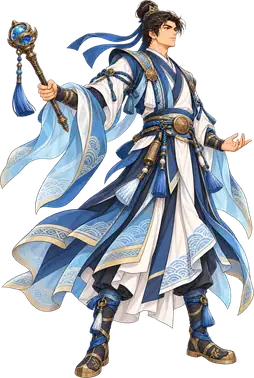
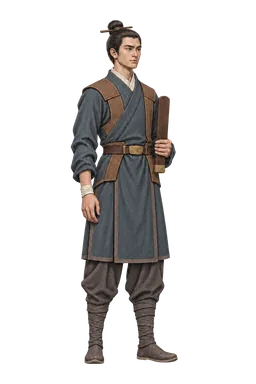
feat: dựng lại hình Đinh Liễn theo bộ tranh mới
Bộ 6 tranh Shan gửi 03/11 (thiết kế RB-007: áo giao lĩnh chàm, giáp da mỏng, vòng vải
ngà cổ tay, thủ bản gỗ đầu bịt đồng) thay bộ áo lam cầm trượng cầu cũ. Ảnh đứng tách
lớp bằng code: bàn tay cùng thủ bản xoay quanh cổ tay (giữ nhịp trượng), cẳng tay không
buông bên hông, đầu; chỗ bị che được chép vân áo bên cạnh. Thêm tranh đánh thường và
phong thái (đặt tay lên ngực); bỏ các lớp vải cũ cape, ribbon, sash, sleeve.

Claude-Session: https://claude.ai/code/session_013ZWRLo17BTWnXwE7jaHzav

diff --git a/src/app/game/stage/rigs.ts b/src/app/game/stage/rigs.ts
@@ -664,45 +664,49 @@ const LE_HOAN: WarriorRig = {
     anchor: { x: 500, y: 1240 }, scale: 0.95 },
 };
 
-/** Đinh Liễn, pháp sư hệ Thủy. Tọa độ theo tranh 1024×1536; nâng pháp trượng nhẹ từ vai. */
+/**
+ * Đinh Liễn, pháp sư hệ Thủy. Bộ tranh Shan gửi 03/11 (nền trong suốt sẵn) theo thiết kế mới RB-007: áo giao lĩnh chàm,
+ * giáp da mỏng, vòng vải ngà cổ tay, tay cầm thủ bản gỗ đầu bịt đồng, thay bộ áo lam cầm trượng cầu cũ. Ảnh đứng tách
+ * lớp bằng code: bàn tay cùng thủ bản xoay quanh cổ tay (nhịp trượng, nâng nhẹ), cẳng tay không buông bên hông, đầu;
+ * chỗ thủ bản che tay áo được chép vân tay áo bên kia, chỗ cẳng tay che vạt áo được chép vân vạt áo cạnh đó. Hệ tọa độ:
+ * ảnh đứng 1024×1536.
+ */
 const DINH_LIEN: WarriorRig = {
   skeleton: "warrior",
   weapon: "staff",
   dir: "dinh-lien",
   texScale: 0.5,
-  foot: { x: 625, y: 1508 },
-  height: 1513,
+  foot: { x: 500, y: 1450 },
+  height: 1375,
   parts: {
-    body: { x: 251, y: 10, w: 770, h: 1513 },
-    armR: { x: 820, y: 518, w: 193, h: 101 },
-    sword: { x: 33, y: 91, w: 245, h: 445 },
-    arm: { x: 5, y: 314, w: 488, h: 556 },
-    head: { x: 546, y: 10, w: 203, h: 217 },
+    body: { x: 280, y: 78, w: 433, h: 1380 },
+    armR: { x: 314, y: 691, w: 90, h: 203 },
+    sword: { x: 614, y: 381, w: 69, h: 318 },
+    arm: { x: 614, y: 548, w: 91, h: 117 },
+    head: { x: 398, y: 78, w: 171, h: 209 },
   },
-  cloth: [
-    { name: "ribbon", box: { x: 272, y: 81, w: 318, h: 204 }, behind: true,
-      wind: { axis: "x", start: 0.2, amp: 5, freq: 1.6, k: 2.8, phase: 0.3, vertical: true, reverse: true } },
-    { name: "cape", box: { x: 10, y: 588, w: 553, h: 669 }, behind: true,
-      wind: { axis: "y", start: 0.2, amp: 4, freq: 1.2, k: 2.8, phase: 1.2 } },
-    { name: "sash", box: { x: 461, y: 551, w: 196, h: 268 },
-      wind: { axis: "y", start: 0.2, amp: 2, freq: 1.35, k: 2.8, phase: 2.1 } },
-  ],
-  covers: [{ name: "sleeve", box: { x: 400, y: 223, w: 138, h: 140 } }],
+  cloth: [],
+  covers: [],
   joints: {
-    shoulder: { x: 465, y: 330 },
-    elbowR: { x: 846, y: 550 },
-    neck: { x: 645, y: 211 },
+    shoulder: { x: 660, y: 580 },
+    elbowR: { x: 345, y: 702 },
+    neck: { x: 490, y: 270 },
   },
-  blade: [{ x: 193, y: 369 }, { x: 95, y: 155 }],
+  blade: [{ x: 642, y: 690 }, { x: 658, y: 392 }],
   fxColor: 0x9fe3ff,
+  // Đưa tay không ra ngang hông (đánh thường), xòe bàn tay chắn trước ngực, thủ bản ngang thắt lưng (ra chiêu), giơ
+  // thủ bản cạnh thái dương và ấn tay về trước trong thế tấn (tuyệt chiêu). Cỡ so theo khoảng mắt tới cằm.
   poses: {
-    cast: { name: "pose-cast", texScale: 1 / 3, origin: { x: 0, y: 66 },
-      anchor: { x: 555, y: 1465 }, scale: 1, burst: { x: 920, y: 174 } },
-    ultimate: { name: "pose-ultimate", texScale: 1 / 3, origin: { x: 11, y: 10 },
-      anchor: { x: 620, y: 1505 }, scale: 1, burst: { x: 450, y: 75 } },
+    attack: { name: "pose-attack", texScale: 0.3, origin: { x: 287, y: 66 },
+      anchor: { x: 475, y: 1478 }, scale: 0.97, burst: { x: 810, y: 449 } },
+    cast: { name: "pose-cast", texScale: 0.3, origin: { x: 209, y: 32 },
+      anchor: { x: 470, y: 1505 }, scale: 0.95, burst: { x: 345, y: 330 } },
+    ultimate: { name: "pose-ultimate", texScale: 0.3, origin: { x: 99, y: 70 },
+      anchor: { x: 480, y: 1490 }, scale: 0.97, burst: { x: 752, y: 110 } },
   },
-  down: { name: "pose-down", texScale: 1 / 3, origin: { x: 12, y: 12 },
-    anchor: { x: 930, y: 945 }, scale: 0.88 },
+  // Ngồi bệt lệch hông, một tay chống đất, thủ bản rơi bên cạnh.
+  down: { name: "pose-down", texScale: 0.3, origin: { x: 43, y: 455 },
+    anchor: { x: 560, y: 1262 }, scale: 0.95 },
 };
 
 /** Trần Lãm, quân sư hệ Thủy. Cờ lệnh đẩy nhẹ; tọa độ theo tranh 1024×1536. */

diff --git a/tests/game/rigs.test.ts b/tests/game/rigs.test.ts
@@ -1796,3 +1796,29 @@ test("Lê Hoàn bộ mới cầm kiếm: khớp nằm trong lớp và texture kh
     assert.equal(data.readUIntLE(27, 3) + 1, Math.floor(box.h * rig.texScale), name);
   }
 });
+
+test("Đinh Liễn bộ mới cầm thủ bản: đủ bốn tranh tư thế, khớp nằm trong lớp và texture khớp tọa độ", () => {
+  const rig = rigOf("dinhLien");
+  assert.ok(rig?.skeleton === "warrior");
+  assert.equal(rig.weapon, "staff");
+  assert.deepEqual(rig.cloth, []);
+  assert.equal(rig.poses?.attack?.name, "pose-attack");
+  assert.equal(rig.poses?.cast?.name, "pose-cast");
+  assert.equal(rig.poses?.ultimate?.name, "pose-ultimate");
+  assert.equal(rig.down?.name, "pose-down");
+  const contains = (p: { x: number; y: number }, box: { x: number; y: number; w: number; h: number }) =>
+    assert.ok(p.x > box.x && p.x < box.x + box.w && p.y > box.y && p.y < box.y + box.h, `${JSON.stringify(p)} ngoài lớp`);
+  contains(rig.joints.shoulder, rig.parts.arm);
+  contains(rig.joints.elbowR, rig.parts.armR);
+  contains(rig.joints.neck, rig.parts.head);
+  contains(rig.joints.neck, rig.parts.body);
+  let bytes = 0;
+  for (const name of partsOf(rig)) bytes += statSync(`public${partUrl(rig, name)}`).size;
+  assert.ok(bytes <= 350_000, `${bytes} bytes vượt ngân sách`);
+  for (const [name, box] of Object.entries(rig.parts)) {
+    const data: Buffer = readFileSync(`public${partUrl(rig, name)}`);
+    assert.equal(data.toString("ascii", 12, 16), "VP8X");
+    assert.equal(data.readUIntLE(24, 3) + 1, Math.floor(box.w * rig.texScale), name);
+    assert.equal(data.readUIntLE(27, 3) + 1, Math.floor(box.h * rig.texScale), name);
+  }
+});

diff --git a/docs/06-art/prompts/v4-2/01-chinh-lich-su-su-quan.md b/docs/06-art/prompts/v4-2/01-chinh-lich-su-su-quan.md
@@ -489,7 +489,7 @@ CONSISTENCY: Create a new design from the description; no previous Reed Banner a
 
 ### RB-007 — Đinh Liễn · Pháp sư / Thủy
 
-> Trạng thái riêng: **DRAFT** — pilot thiết kế mới từ đầu theo yêu cầu Shan 31/10/2026; không khóa theo tranh cũ. Chưa duyệt Master hoặc tạo ảnh.
+> Trạng thái riêng: **DRAFT** — pilot thiết kế mới từ đầu theo yêu cầu Shan 31/10/2026; không khóa theo tranh cũ. Shan gửi đủ 6 khung ngày 03/11/2026, đã đưa vào game (`public/art/characters/dinh-lien/`: khung 1 → ảnh đứng tách lớp, 2 → `pose-attack`, 3 → `pose-cast`, 4 → `pose-ultimate`, 5 → `pose-down`, 6 → `style`).
 
 #### Identity DNA mới và ranh giới sử liệu
 
